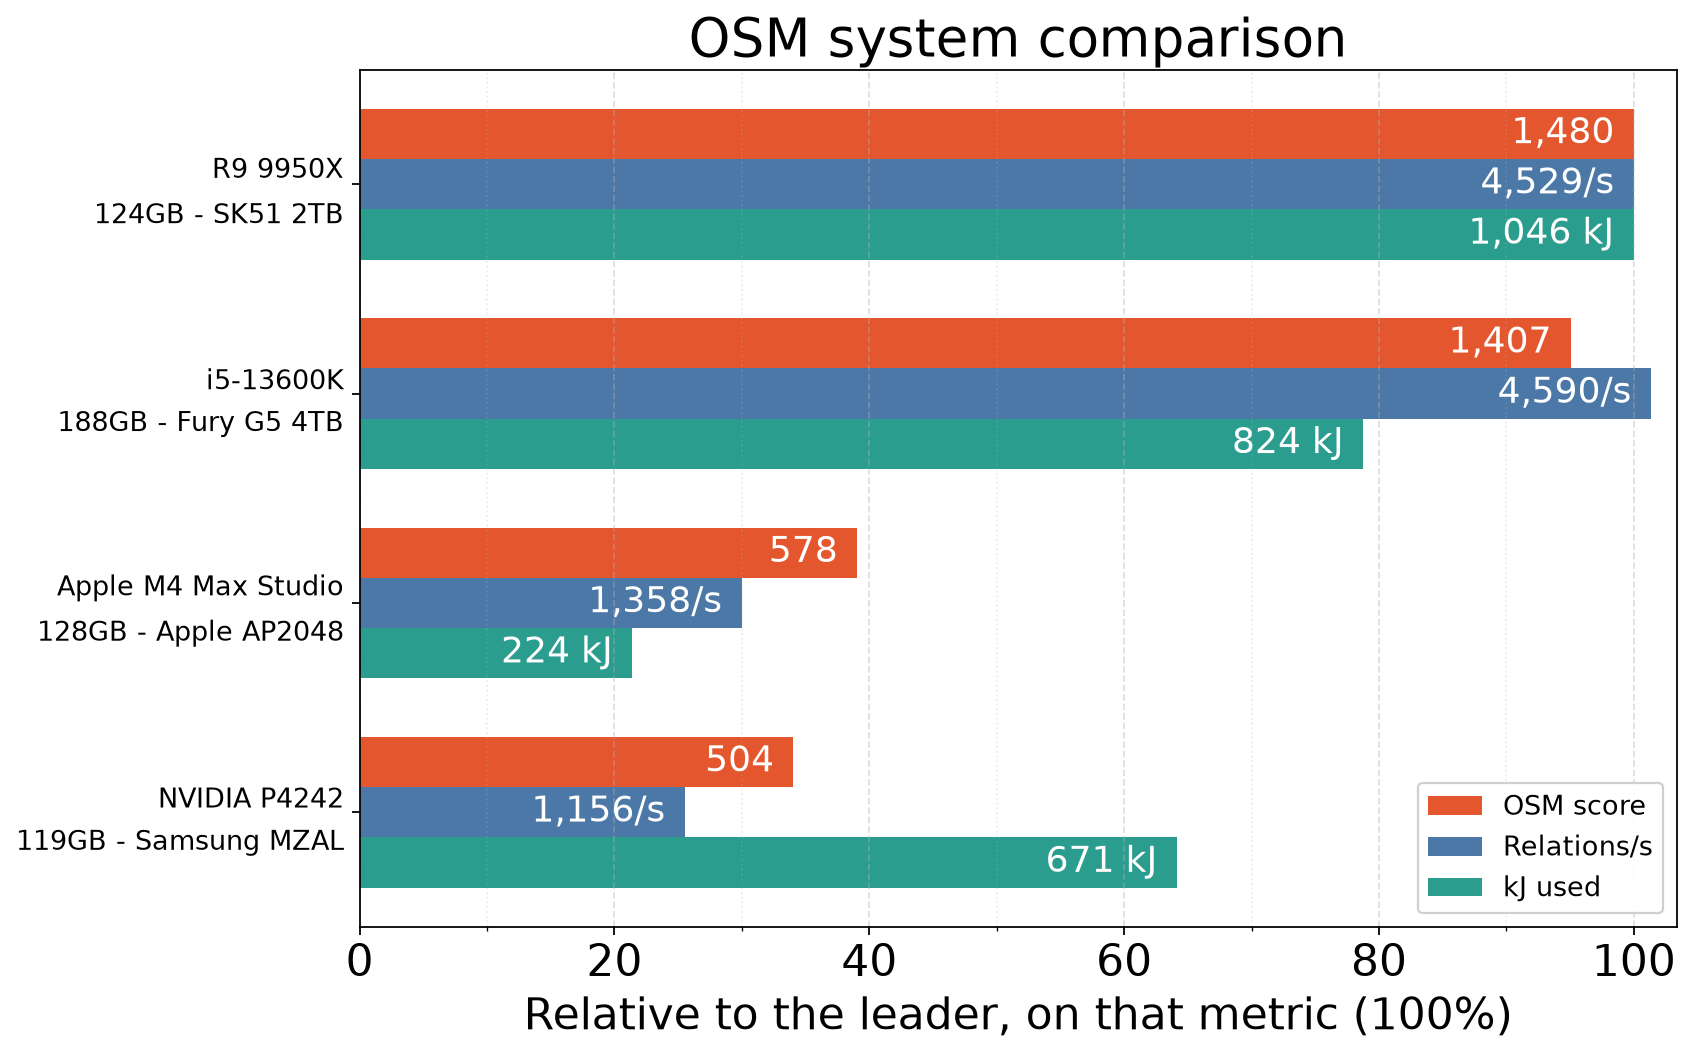
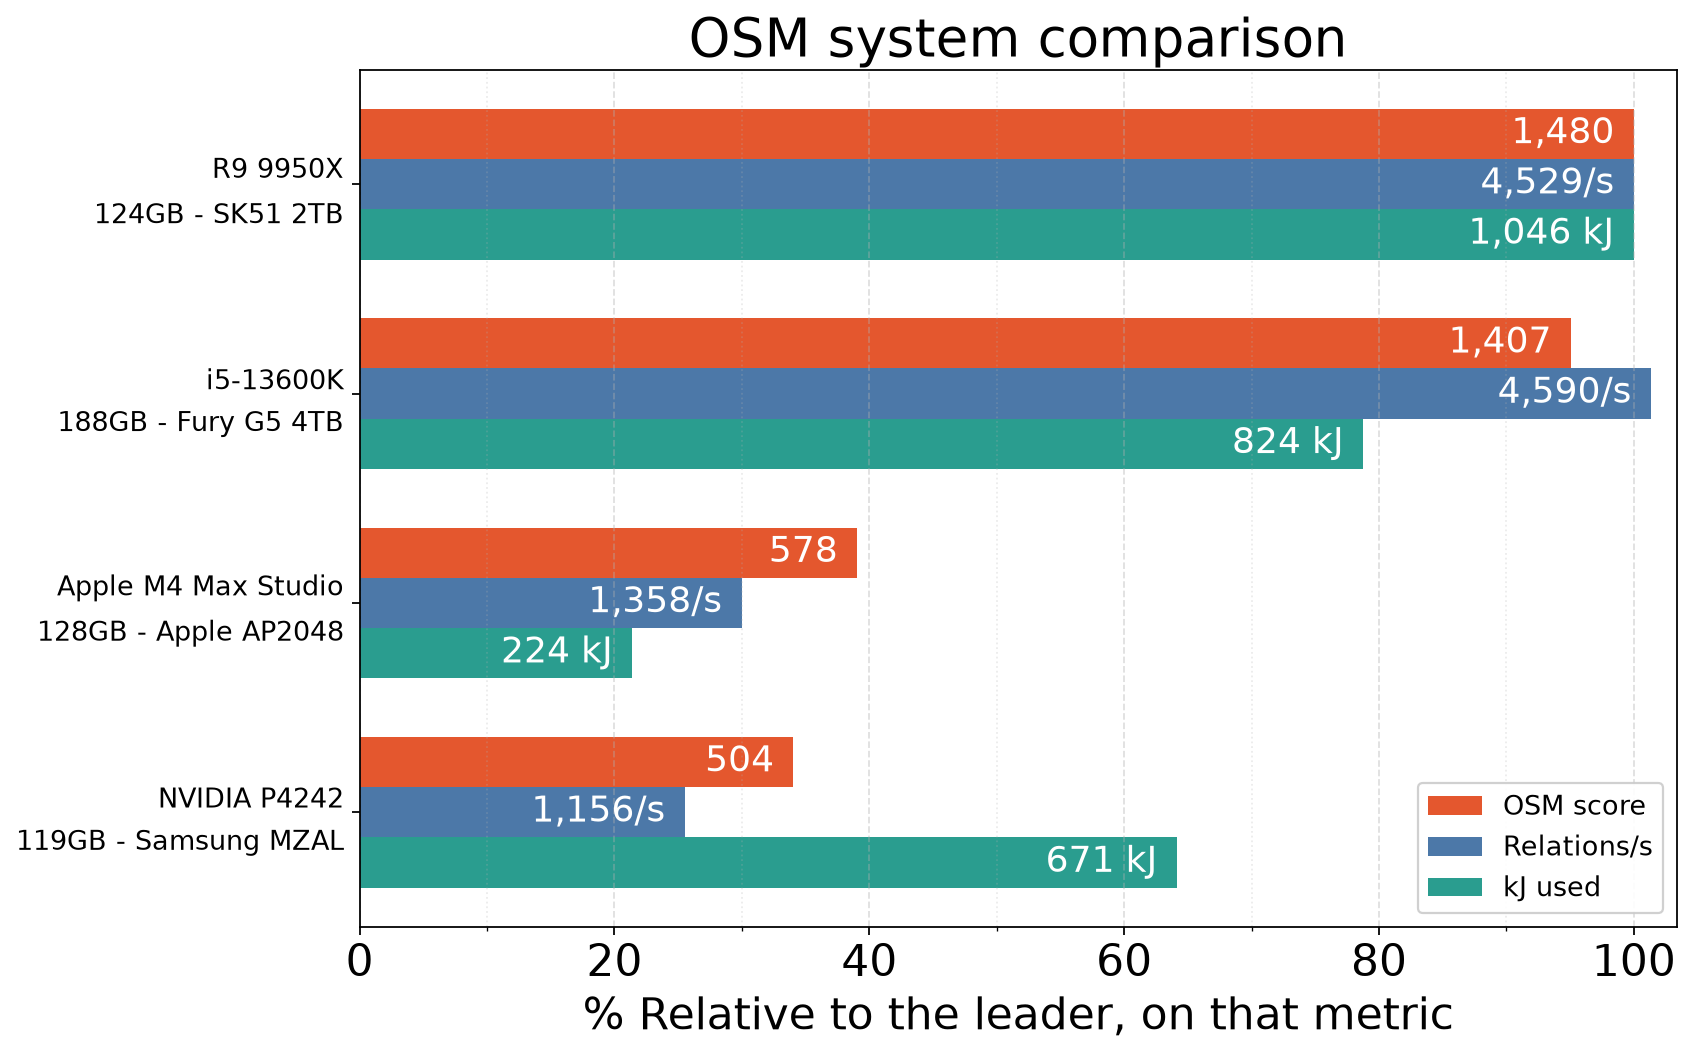
Lead the comparison x-axis with a percent so the scale is obvious.
The old (100%) suffix was easy to miss next to the tick labels.

Changed region(s): [[0.3073, 0.9375, 0.8913, 1.0]]

diff --git a/reports/osm-leaderboard.py b/reports/osm-leaderboard.py
@@ -337,7 +337,7 @@ def plot_system_compare(df: pd.DataFrame, output: Path, show: bool = False) -> N
         fontsize=LEADERBOARD_Y_LABEL_FONTSIZE,
         linespacing=LABEL_LINESPACING,
     )
-    ax.set_xlabel("Relative to the leader, on that metric (100%)")
+    ax.set_xlabel("% Relative to the leader, on that metric")
     ax.set_title("OSM system comparison")
     ax.xaxis.set_minor_locator(AutoMinorLocator(2))
     ax.grid(True, axis="x", which="major", linestyle="--", alpha=0.4)
